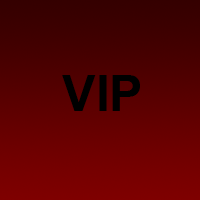
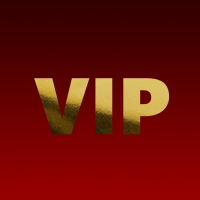
added images to ticketshop added more ticket types to ticketshop

Changed region(s): [[0.15, 0.36, 0.87, 0.69], [0.0, 0.96, 1.0, 1.0]]

diff --git a/assets/css/layout.css b/assets/css/layout.css
@@ -226,7 +226,9 @@ main {}
         max-width: 100%;
     }
     .item-details {    
-      padding: 1em;
+        padding-left: 1em;
+        padding-top: 1em;
+        padding-bottom: 1em;
       width: 65%;
       margin-left: 35%;
     }
@@ -260,7 +262,9 @@ main {}
         max-width: 100%;
     }
     .item-details {    
-      padding: 1em;
+        padding-left: 1em;
+        padding-top: 1em;
+        padding-bottom: 1em;
       width: 65%;
       margin-left: 35%;
     }
@@ -370,7 +374,8 @@ main {}
     clear: both;
     overflow: hidden;
     display: flex;
-    padding: 0.5em;
+    padding-top: 0.5em;
+    padding-bottom: 0.5em;
     min-height: 190px;
 }
 .item-image {    
@@ -381,9 +386,11 @@ main {}
     max-width: 100%;
 }
 .item-details {    
-  padding: 1em;
-  width: 100%;
-  margin-left: 23%;
+    padding-left: 1em;
+    padding-top: 1em;
+    padding-bottom: 1em;
+    width: 100%;
+    margin-left: 23%;
 }
 
 .ticket.border-top {

diff --git a/views/pages/ticketshop.php b/views/pages/ticketshop.php
@@ -60,7 +60,7 @@
                     }
                     ?>
                     <div class="float-left item-image">
-                        <img class="" src="assets/img/ticket_VIP.png" />
+                        <img class="" src="<?php echo $ticket['IMAGEURL']; ?>" />
                     </div>
                     <div class="float-left item-details">                    
                     <h4 class="ticket-name"><?php echo $ticket['NAME']; ?></h4>

diff --git a/controller/pages_controller.php b/controller/pages_controller.php
@@ -604,7 +604,6 @@ class PagesController extends \app\core\Controller
 		$tickets = Ticket::find();
 		if(!empty($tickets))
 		{
-			$ticketdata = $tickets[0];
 			$this->_params['tickets'] = $tickets;
 		}
 	}
